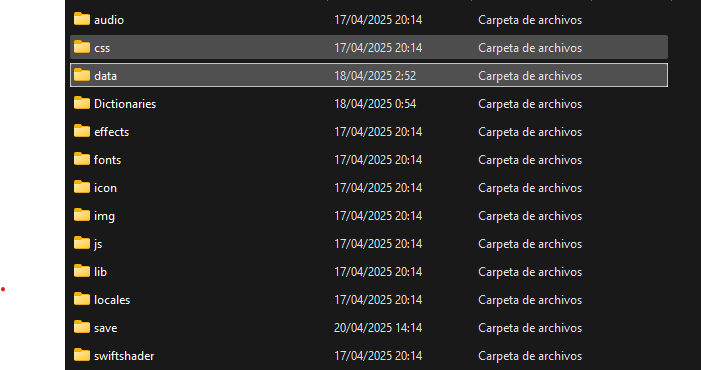
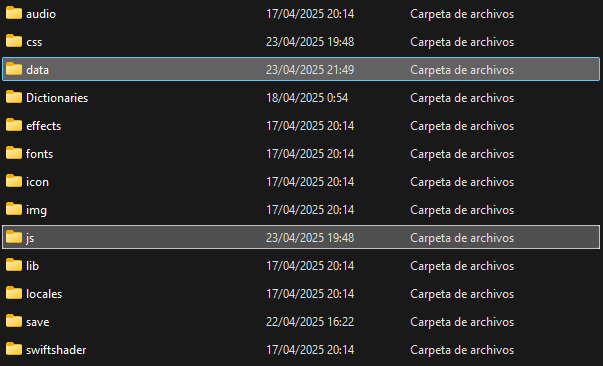
added support for weapons file

diff --git a/js/scripts.js b/js/scripts.js
@@ -7,7 +7,8 @@ const keysForFile = {
   "Items.json": ['id:int', 'name:string', 'description:string'],
   "MAPS": ['event_id:int', 'page_index:int', 'list_index:int', 'text'],
   "Skills.json": ['id:int', 'name:string', 'description:string', 'message1:string', 'message2:string'],
-  "States.json": ['id:int', 'name:string', 'note:string', 'message1:string', 'message2:string', 'message3:string', 'message4:string']
+  "States.json": ['id:int', 'name:string', 'note:string', 'message1:string', 'message2:string', 'message3:string', 'message4:string'],
+  "Weapons.json": ['id:int', 'name:string', 'description:string', 'note:string']
 }
 
 function Archivo(name, json, selected, highlighted){
